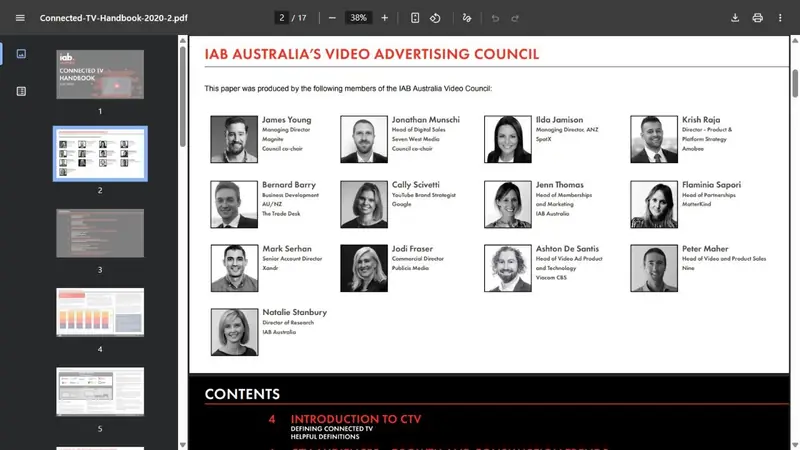
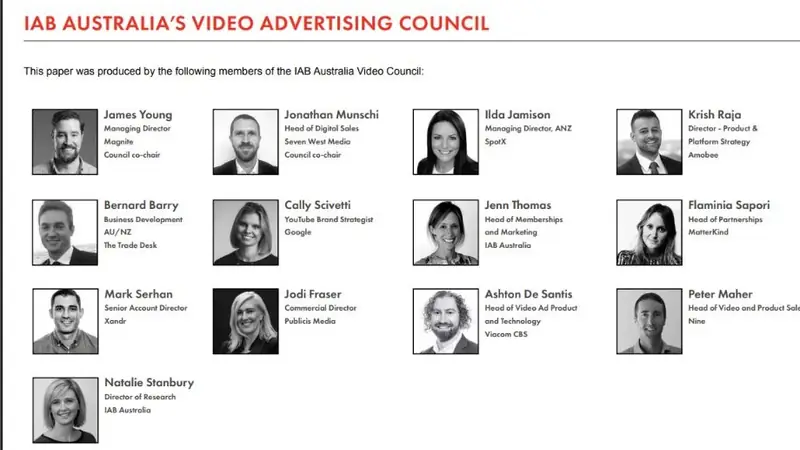
feat: crop every appearance thumbnail to its subject
Krish asked for the Laforet thumbnail to show the bottom half, where the
headshots are, and for the rest to be framed on his face where there is one.
The first was a two-line fix. The second turned out to be a different problem
from the one it looked like.

The thumbnails were not badly positioned. Seventeen of the nineteen captures
are exactly 1280x720, so in a 16:9 card object-cover shows the whole image and
object-position has nothing to move. What was wrong is that each one is a
photograph of a browser: the subject occupies a fraction of the frame and the
rest is navigation, a scrollbar and YouTube's recommendation rail. Scaled whole
into the 96px desktop thumbnail, a face that fills a third of the frame lands
about twenty pixels across. That is why every card read as grey chrome, and no
amount of positioning would have changed it.

So the crop happens in the pipeline, on the master, before scaling. Appearance
entries take the same crop field the OS recordings already had, now a shared
MediaCrop type. Nineteen crops, each aimed at something and each saying in a
comment what it is aimed at. Thirteen frame Krish. The other six have no face
in them at any size, so they go to the masthead, the headline or the
illustration instead, and the comment says which.

Two things learned setting them.

All six YouTube watch pages share one player rectangle, (16, 67, 874, 493),
which is exactly 16:9. Detected rather than measured by eye, and identical
across all six.
[…]

diff --git a/src/content/appearances.ts b/src/content/appearances.ts
@@ -43,6 +43,8 @@ export const appearances: AppearancesContent = {
       year: '2017',
       href: 'https://www.marketingmag.com.au/tech-data/nine-head-of-data-and-programmatic-why-programmatic-wont-be-a-word-within-a-few-years/',
       media: '/media/appearances/adobe-symposium-opera-house-keynote.webp',
+      // No face in this one, so the masthead and the headline.
+      crop: { top: 50, bottom: 140, left: 170, right: 168 },
     },
     {
       appearanceId: 'bt-30-under-30-strategy',
@@ -52,6 +54,8 @@ export const appearances: AppearancesContent = {
       year: '2017',
       href: 'https://www.bandt.com.au/winners-revealed-bts-30-30-awards/',
       media: '/media/appearances/bt-30-under-30-strategy.webp',
+      // No face in this one, so the masthead and the award headline.
+      crop: { top: 315, left: 30, right: 530 },
     },
     {
       appearanceId: 'ai-edge-podcast-episode-1',
@@ -61,6 +65,8 @@ export const appearances: AppearancesContent = {
       year: '2025',
       href: 'https://www.youtube.com/watch?v=Jvu7DSN9SnU',
       media: '/media/appearances/ai-edge-podcast-episode-1.webp',
+      // All three on the call, Krish on the right.
+      crop: { top: 20, bottom: 19 },
     },
     {
       appearanceId: 'cannes-lions-2026-day-4',
@@ -70,6 +76,8 @@ export const appearances: AppearancesContent = {
       year: '2026',
       href: 'https://www.youtube.com/watch?v=6ebe_DRwjsc',
       media: '/media/appearances/cannes-lions-2026-day-4.webp',
+      // Already a still rather than a page capture, so this only centers it.
+      crop: { left: 110 },
     },
     {
       appearanceId: 'possible-2026-day-1',
@@ -79,6 +87,8 @@ export const appearances: AppearancesContent = {
       year: '2026',
       href: 'https://www.youtube.com/watch?v=6yCi20GFUN4',
       media: '/media/appearances/possible-2026-day-1.webp',
+      // The player, him on the left.
+      crop: { top: 67, bottom: 160, left: 16, right: 390 },
     },
     {
       appearanceId: 'iab-connected-tv-handbook',
@@ -88,6 +98,8 @@ export const appearances: AppearancesContent = {
       year: '2020',
       href: 'https://iabaustralia.com.au/wp-content/uploads/2017/07/Connected-TV-Handbook-2020-2.pdf',
       media: '/media/appearances/iab-connected-tv-handbook.webp',
+      // The council grid, his headshot in the top row.
+      crop: { top: 60, bottom: 143, left: 300, right: 60 },
     },
     {
       appearanceId: 'nine-data-transaction-byline',
@@ -97,6 +109,8 @@ export const appearances: AppearancesContent = {
       year: '2017',
       href: 'https://www.nineforbrands.com.au/opinion-opening-the-gateways-to-data-transaction/',
       media: '/media/appearances/nine-data-transaction-byline.webp',
+      // The portrait under the byline.
+      crop: { top: 360, left: 126, right: 514 },
     },
     {
       appearanceId: 'give-it-a-nudge-captify',
@@ -106,6 +120,8 @@ export const appearances: AppearancesContent = {
       year: '2022',
       href: 'https://www.youtube.com/watch?v=6_bf9L1OX3s',
       media: '/media/appearances/give-it-a-nudge-captify.webp',
+      // The player, him on stage.
+      crop: { top: 67, bottom: 175, left: 16, right: 414 },
     },
     {
       appearanceId: 'ai-leadership-dothinkdo-webinar',
@@ -115,6 +131,8 @@ export const appearances: AppearancesContent = {
       year: '2026',
       href: 'https://dothinkdo.com/webinars/is-ai-strengthening-your-leadership-or-quietly-undermining-it',
       media: '/media/appearances/ai-leadership-dothinkdo-webinar.webp',
+      // His face, in the clip embedded on the page.
+      crop: { top: 435, left: 669, right: 104 },
     },
     {
       appearanceId: 'dan-pratl-expertise-as-an-asset',
@@ -124,6 +142,8 @@ export const appearances: AppearancesContent = {
       year: '2026',
       href: 'https://www.youtube.com/watch?v=dcD-G00RDcE',
       media: '/media/appearances/dan-pratl-expertise-as-an-asset.webp',
+      // The player, both faces.
+      crop: { top: 67, bottom: 160, left: 16, right: 390 },
     },
     {
       appearanceId: 'cannes-lions-2026-day-3',
@@ -133,6 +153,8 @@ export const appearances: AppearancesContent = {
       year: '2026',
       href: 'https://www.youtube.com/watch?v=SrqZdwyV2PA',
       media: '/media/appearances/cannes-lions-2026-day-3.webp',
+      // The player, without the page around it or the sidebar beside it.
+      crop: { top: 67, bottom: 160, left: 16, right: 390 },
     },
     {
       appearanceId: 'alanna-laforet-hacker-mentality',
@@ -142,6 +164,8 @@ export const appearances: AppearancesContent = {
       year: '2026',
       href: 'https://www.signalandnoise.ai/post/alanna-laforet-developing-a-hacker-mentality-to-take-control-of-your-career-journey',
       media: '/media/appearances/alanna-laforet-hacker-mentality.webp',
+      // The bottom half, which is where the two headshots are.
+      crop: { top: 460, left: 20, right: 20 },
     },
     {
       appearanceId: 'cannes-live-justin-kramm',
@@ -151,6 +175,8 @@ export const appearances: AppearancesContent = {
       year: '2026',
       href: 'https://www.youtube.com/watch?v=lmXf5iiTOVk',
       media: '/media/appearances/cannes-live-justin-kramm.webp',
+      // His face, filling the frame.
+      crop: { top: 167, bottom: 251, right: 743 },
     },
     {
       appearanceId: 'justin-kramm-authentic-voice',
@@ -160,6 +186,8 @@ export const appearances: AppearancesContent = {
       year: '2026',
       href: 'https://www.youtube.com/watch?v=XXPm0gQOy4k',
       media: '/media/appearances/justin-kramm-authentic-voice.webp',
+      // His face, filling the frame.
+      crop: { top: 143, bottom: 237, right: 675 },
     },
     {
       appearanceId: 'balancing-the-grind-interview',
@@ -169,6 +197,8 @@ export const appearances: AppearancesContent = {
       year: '2021',
       href: 'https://balancethegrind.co/interviews/krish-raja-general-manager-at-captify-australia/',
       media: '/media/appearances/balancing-the-grind-interview.webp',
+      // The portrait, without the article column beside it.
+      crop: { top: 170, bottom: 280, left: 30, right: 770 },
     },
     {
       appearanceId: 'liveramp-online-identity-panel',
@@ -178,6 +208,8 @@ export const appearances: AppearancesContent = {
       year: '2020',
       href: 'https://liveramp.com.au/blog/online-identity-in-a-world-of-cookieless-browsers/',
       media: '/media/appearances/liveramp-online-identity-panel.webp',
+      // No face in this one, so the headline.
+      crop: { top: 130, bottom: 185, left: 80, right: 480 },
     },
     {
       appearanceId: 'adobe-digital-data-overload',
@@ -187,6 +219,8 @@ export const appearances: AppearancesContent = {
       year: '2017',
       href: 'https://blog.adobe.com/en/publish/2017/05/20/digital-data-overload-ai-to-the-rescue',
       media: '/media/appearances/adobe-digital-data-overload.webp',
+      // No face in this one, so the data illustration instead.
+      crop: { top: 200, left: 170, right: 186 },
     },
     {
       appearanceId: 'mumbrella360-travel-marketing-panel',
@@ -196,6 +230,8 @@ export const appearances: AppearancesContent = {
       year: '2017',
       href: 'https://mumbrella.com.au/wp-content/uploads/2017/11/Travel_program_PRINT_LR-1.pdf',
       media: '/media/appearances/mumbrella360-travel-marketing-panel.webp',
+      // Nothing legible at thumbnail size, so the conference brand block.
+      crop: { top: 315, left: 300, right: 260 },
     },
     {
       appearanceId: 'captify-hire-announcement',
@@ -204,6 +240,8 @@ export const appearances: AppearancesContent = {
       kind: 'press',
       href: 'https://www.captifytechnologies.com/latest/news/captify-hires-video-and-programmatic-executive-krish-raja-as-au-general-manager-to-make-dynamic-and-live-search-data-available-to-australian-programmatic-buyers/',
       media: '/media/appearances/captify-hire-announcement.webp',
+      // The portrait and the line naming him.
+      crop: { top: 135, bottom: 315, left: 395, right: 405 },
     },
     {
       // No content-index record: it is a book, not a web page, so there is

diff --git a/src/content/types.ts b/src/content/types.ts
@@ -108,12 +108,23 @@ export interface OsEntry {
    * here and `npm run media` crops it. Keep the numbers even: H.264 chroma
    * subsampling needs even offsets and dimensions.
    */
-  readonly crop?: {
-    readonly top?: number;
-    readonly bottom?: number;
-    readonly left?: number;
-    readonly right?: number;
-  };
+  readonly crop?: MediaCrop;
+}
+
+/**
+ * Pixels to cut off a master before scaling, in SOURCE pixels.
+ *
+ * Shared by the OS recordings and the appearance captures, because both arrive
+ * with something baked in that nobody wants on the site: a browser status bar
+ * on a screen recording, a page of navigation and a recommendation sidebar on a
+ * capture of a video page. Naming the offset here means a usable master does
+ * not have to be recaptured to ship.
+ */
+export interface MediaCrop {
+  readonly top?: number;
+  readonly bottom?: number;
+  readonly left?: number;
+  readonly right?: number;
 }
 
 export interface OsContent extends SectionHeader {
@@ -163,6 +174,21 @@ export interface Appearance {
   readonly media?: string;
   /** Key into src/lib/asset-map.ts, for items with no content-index record. */
   readonly asset?: string;
+  /**
+   * What part of the master to keep, in source pixels.
+   *
+   * The captures are 1280x720 photographs of a browser: the thing worth looking
+   * at is a fraction of the frame, and the rest is navigation, a scrollbar and
+   * YouTube's recommendation rail. Scaled whole into a 96px thumbnail, a face
+   * that fills a third of the frame lands about twenty pixels across, which is
+   * why every card used to read as grey chrome.
+   *
+   * Cropped here rather than by object-position in the card, because the
+   * captures are already 16:9: object-position has nothing to move. The crop is
+   * what changes the picture, and doing it in the pipeline means the thumbnail
+   * is a real image of that region rather than a scaled-down page.
+   */
+  readonly crop?: MediaCrop;
   readonly note?: string;
 }
 

diff --git a/CLAUDE.md b/CLAUDE.md
@@ -279,7 +279,7 @@ The work list comes from the content layer, so:
 
 - a recording: drop it in `public/files/os screenshots/`, add an entry to `os.ts`
 - a slide: add an entry to `deck.ts` naming a file in `public/files/slides/`
-- an appearance: add an entry to `appearances.ts` with its `appearanceId`
+- an appearance: add an entry to `appearances.ts` with its `appearanceId`, and a `crop`
 - an attendee logo: put `<slug>.png` in `public/files/brand logos/`, add an entry to
   `lessons.attendees`
 
@@ -294,10 +294,32 @@ Three things about uploading a master:
 2. **Name it for the entry, not for the day.** The masters are `os-<id>-final.mp4`, so a
    file called `new os content vid.mp4` gets renamed before its `source` goes into `os.ts`.
    Four masters, four entries, one naming rule.
-3. **A recording with browser chrome does not need re-recording.** `OsEntry.crop` takes
+3. **A recording with browser chrome does not need re-recording.** `MediaCrop` takes
    `{ top, bottom, left, right }` in source pixels and `npm run media` cuts it before
    scaling. The org clip is captured through Chrome, so it carries `crop: { top: 150 }`.
    Keep the numbers even; H.264 chroma subsampling needs even offsets.
+
+   **The appearance captures take the same field, and every one of them needs it.** They
+   are 1280x720 photographs of a browser, so the subject is a fraction of the frame and
+   the rest is navigation, a scrollbar and YouTube's recommendation rail. Scaled whole
+   into the 96px desktop thumbnail, a face that fills a third of the frame lands about
+   twenty pixels across, which is why every card read as grey chrome. The crop is what
+   changes the picture: `object-position` does nothing here, because the captures are
+   already 16:9 and there is no overflow to move. All six YouTube watch pages share one
+   player rectangle, `(16, 67, 874, 493)`, which is exactly 16:9.
+
+   Aim each crop at a face, and say in a comment what it is aimed at. Six of the
+   nineteen have no face to aim at; those go to the masthead, the headline or the
+   illustration, and the comment says so.
+
+   **Do not read coordinates off a contact sheet.** Four crops were set that way and all
+   four landed on the wrong part of the page, because a tile in a composite is not the
+   image. Draw the proposed rectangle on the full master and look at it.
+
+   **A crop is not a file, so mtime cannot see it.** `public/media/recipes.json` records
+   what each derivative was built from beyond its source, and `npm run media -- --check`
+   fails with `crop edited in the content layer, never applied` when the two disagree.
+   Without it, editing a crop leaves a stale derivative that looks entirely correct.
 4. **Watch a frame before you believe the filename.** Also on 12 August 2026, a master
    named `new os content vid.mp4` was renamed to `os-content-final.mp4` on the strength of
    that name and transcoded. It was a recording of the Org screen, so the site shipped the

diff --git a/project-documentation/FACTS.md b/project-documentation/FACTS.md
@@ -51,6 +51,13 @@ section is the strongest external evidence this repo has, and it cuts both ways.
   Adobe Symposium keynote, Adobe's own release identifies the venue.
 
 
+**The Alanna Laforet artwork carries a retired brand name.** Krish's label on it reads
+`Founder & CEO, Mindmaker AI`. Mindmaker was retired on 12 August 2026 and is on the
+banned list, but this is his own artwork on his own site, and the crop he asked for is
+the bottom half, where the labels sit beside the headshots and cannot be excluded by a
+horizontal band. It ships as supplied. **Only a re-export fixes it, and that is his
+call.** The test suite reads prose, not pixels, so nothing will catch this automatically.
+
 **Signal & Noise episodes are an owned surface, and the index records them as one.**
 Krish hosts the show, so a record like `alanna-laforet-hacker-mentality` is evidence that
 the episode exists and that he made it. It is not third-party validation of anything about

diff --git a/public/media/README.md b/public/media/README.md
@@ -9,3 +9,7 @@ the whole process for adding a recording, a slide or an appearance.
 
 Appearance captures are only emitted for records the content index marks
 `approved`. The script throws on anything else.
+
+`recipes.json` records what each derivative was built from beyond its
+source file, which is how `--check` notices a crop that was edited in the
+content layer and never applied. A master mtime cannot see that.
